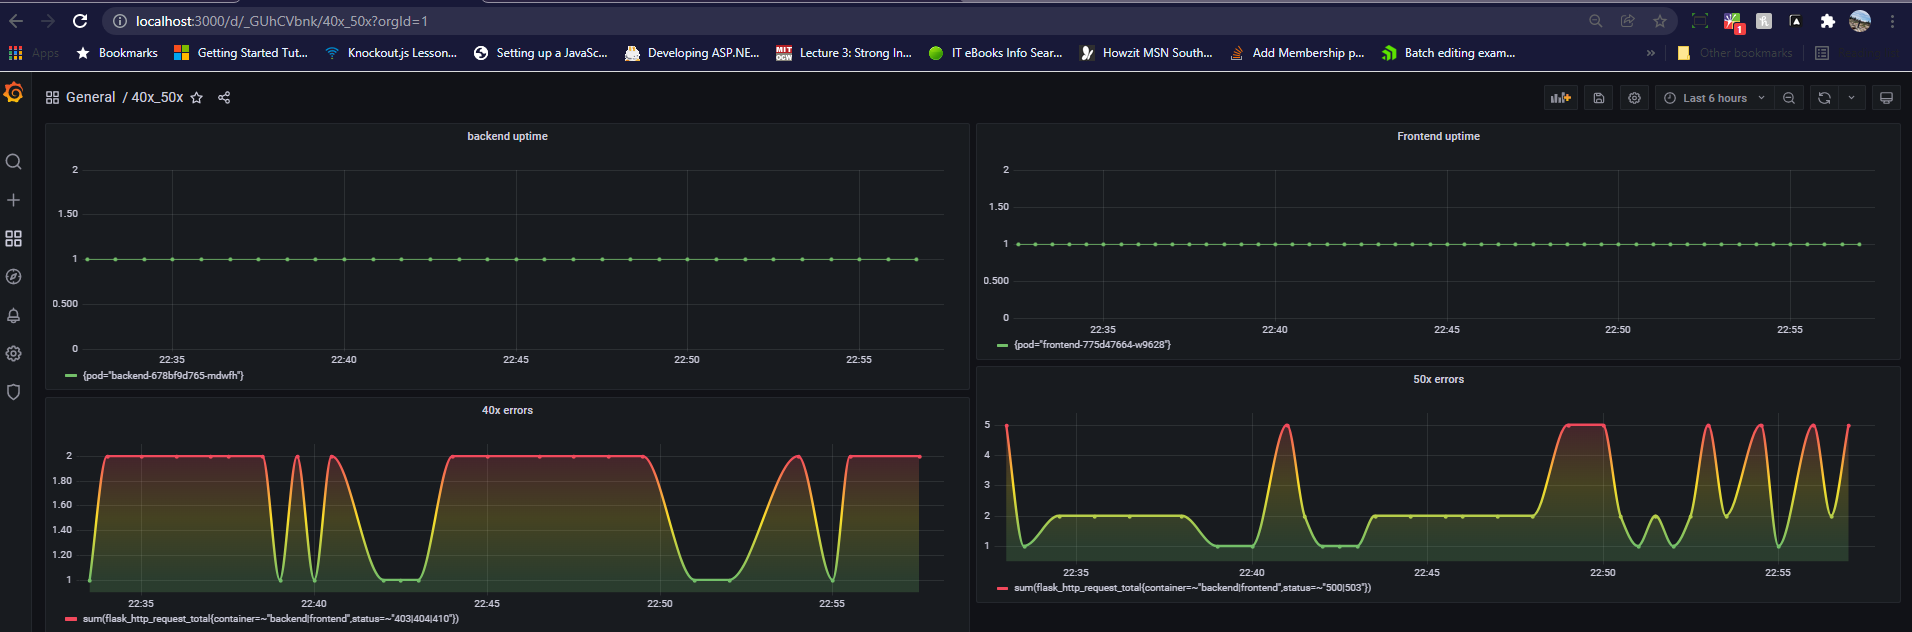
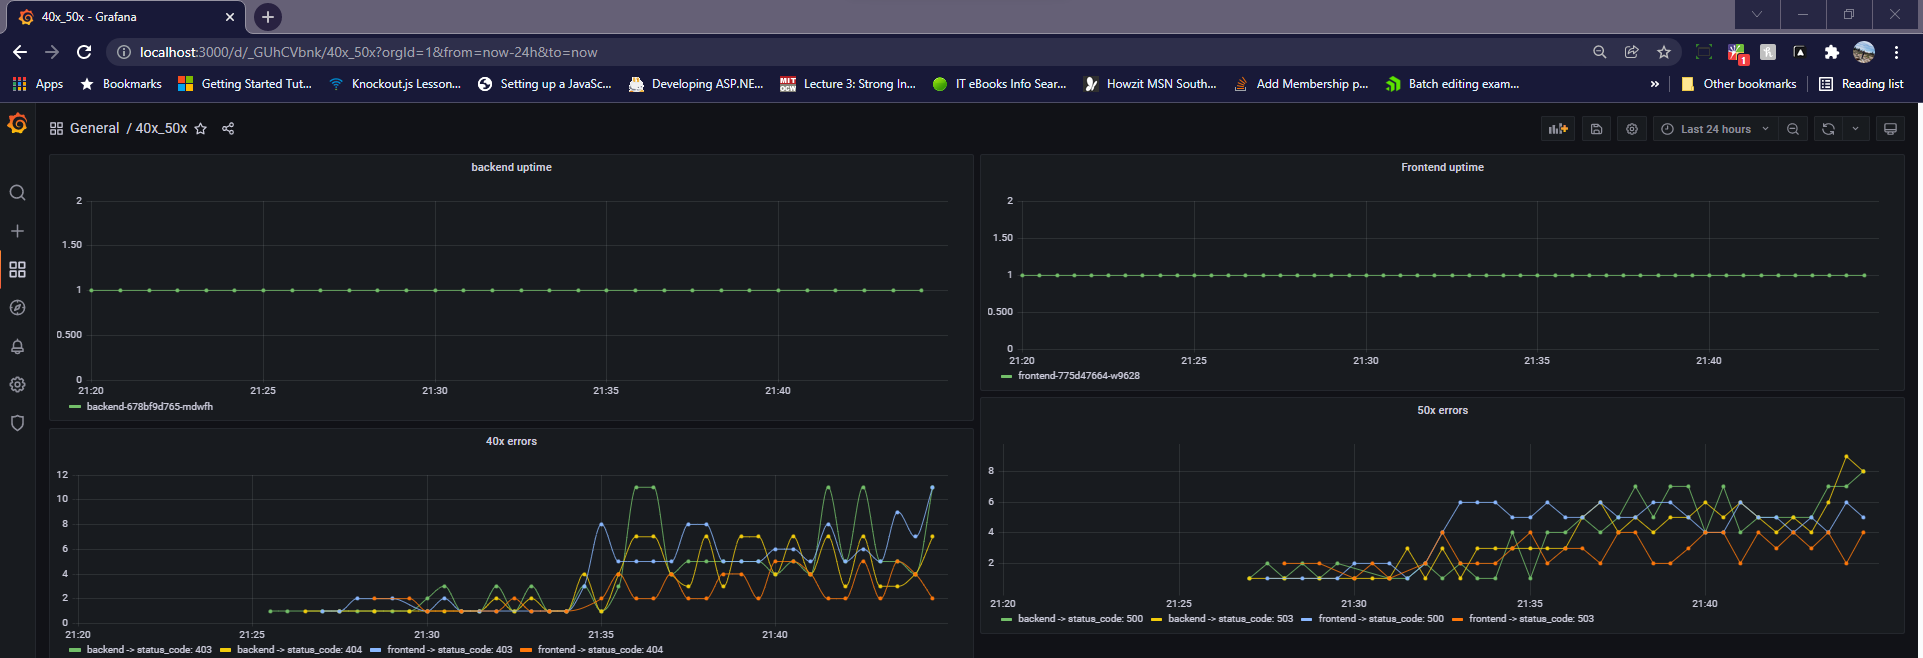
updated readme and image of error report

diff --git a/README.md b/README.md
@@ -98,18 +98,33 @@ Description: When the user calls the /star endpoint of the backend service it th
 ## Creating SLIs and SLOs
 *TODO:* We want to create an SLO guaranteeing that our application has a 99.95% uptime per month. Name four SLIs that you would use to measure the success of this SLO.
 
+- Latency
 - Uptime
 - Failure rate and errors, 
-- Latency
 - Resource usage [Saturation]
 
 ## Building KPIs for our plan
 *TODO*: Now that we have our SLIs and SLOs, create a list of 2-3 KPIs to accurately measure these metrics as well as a description of why those KPIs were chosen. We will make a dashboard for this, but first write them down here.
 
-- Uptime: check that there was no pod downtime and that they are healthy (pod in crashbackloop or error state can cause pod not to restart
-- Failure Rate: Errors per second / response rate per second. 
-- Latency: Response time for our requests)
-- Resource usage: CPU, Memory usage per pod.
+2-3 KPIs per SLI
+
+### Latency
+- request time (in ms) for successful requests
+- request time (in ms) for failed requests
+
+### Uptime
+- Uptime of the individual services (backend and frontend)
+- Pod restarts per namespace
+- checking that pods are in ready state and not in an error state
+
+### Failure rate and errors 
+We need to understand the type of errors that are happening. Jeager Tracing can help with this.
+- 50x errors which are severe because requests are unsuccessful and it can also cause system crashes
+- 40x errors which are not as severe but still needs attention
+
+### Resource usage [Saturation]
+- CPU usage on each of the services to see if the CPU is not oversaturated (backend and frontend)
+- Memory usage on each of the seperate services to see if the services are not running out of memory because of big processos or requests (backend and frontend)
 
 ## Final Dashboard
 *TODO*: Create a Dashboard containing graphs that capture all the metrics of your KPIs and adequately representing your SLIs and SLOs. Include a screenshot of the dashboard here, and write a text description of what graphs are represented in the dashboard.  
